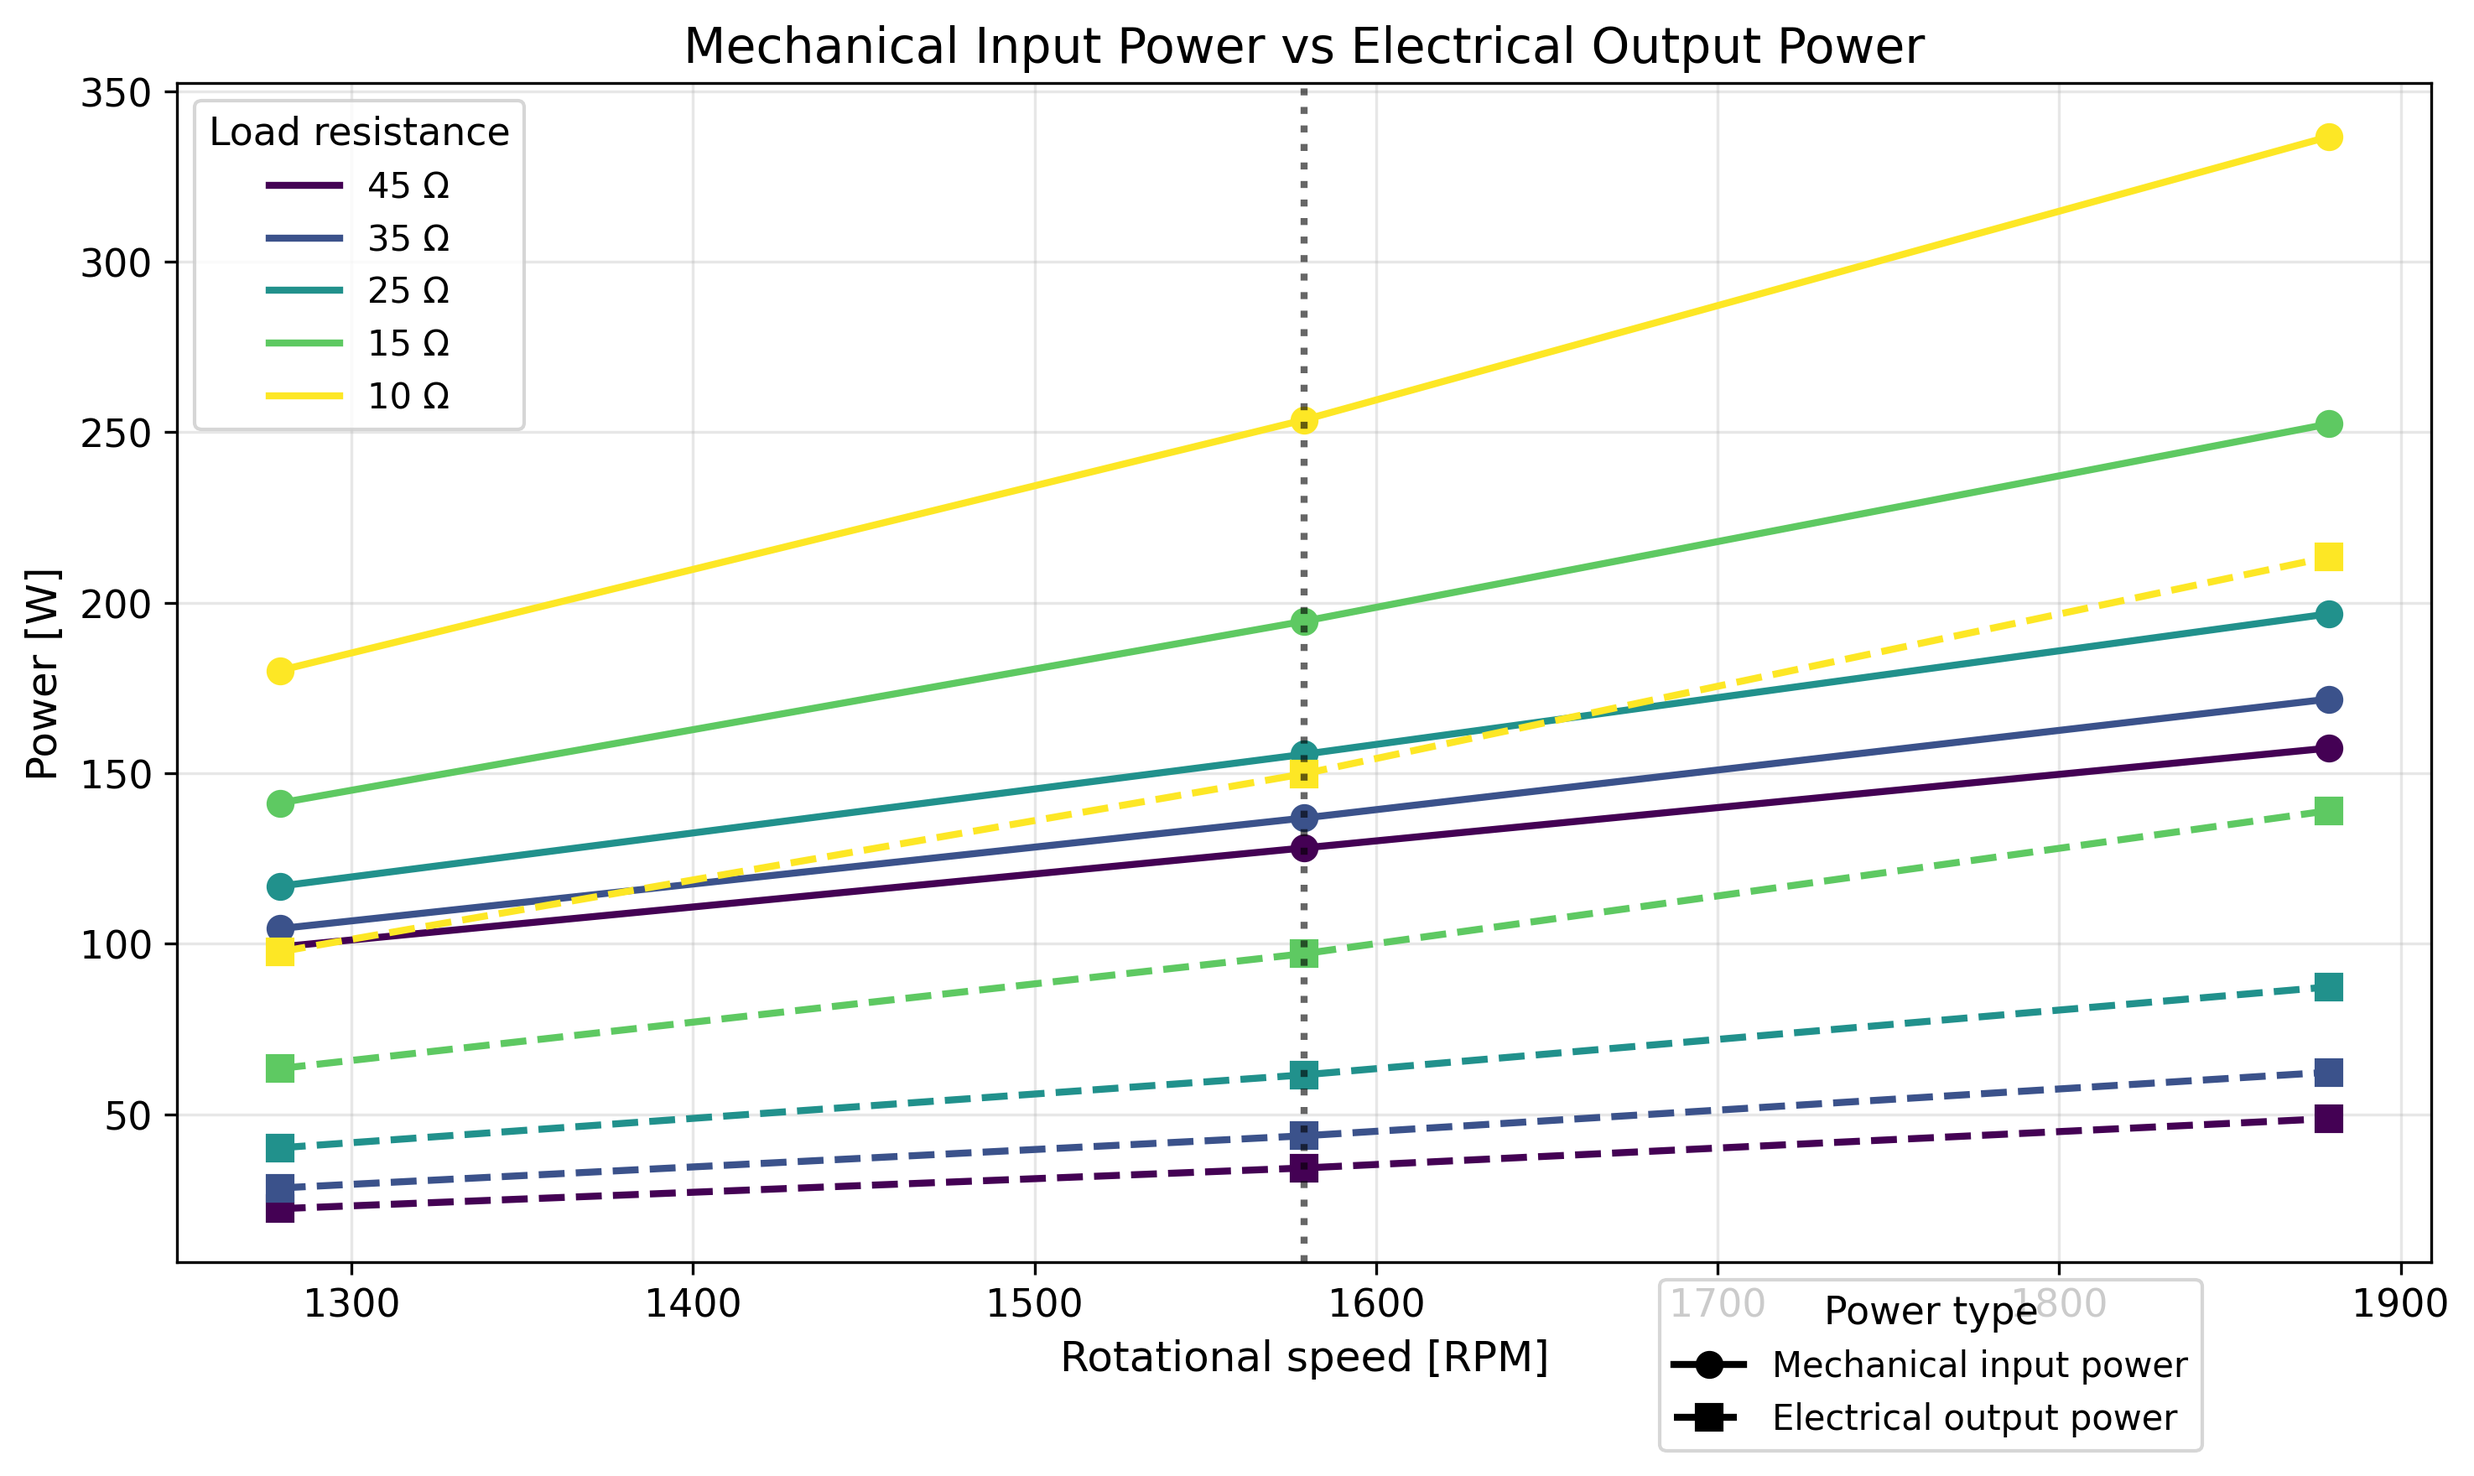
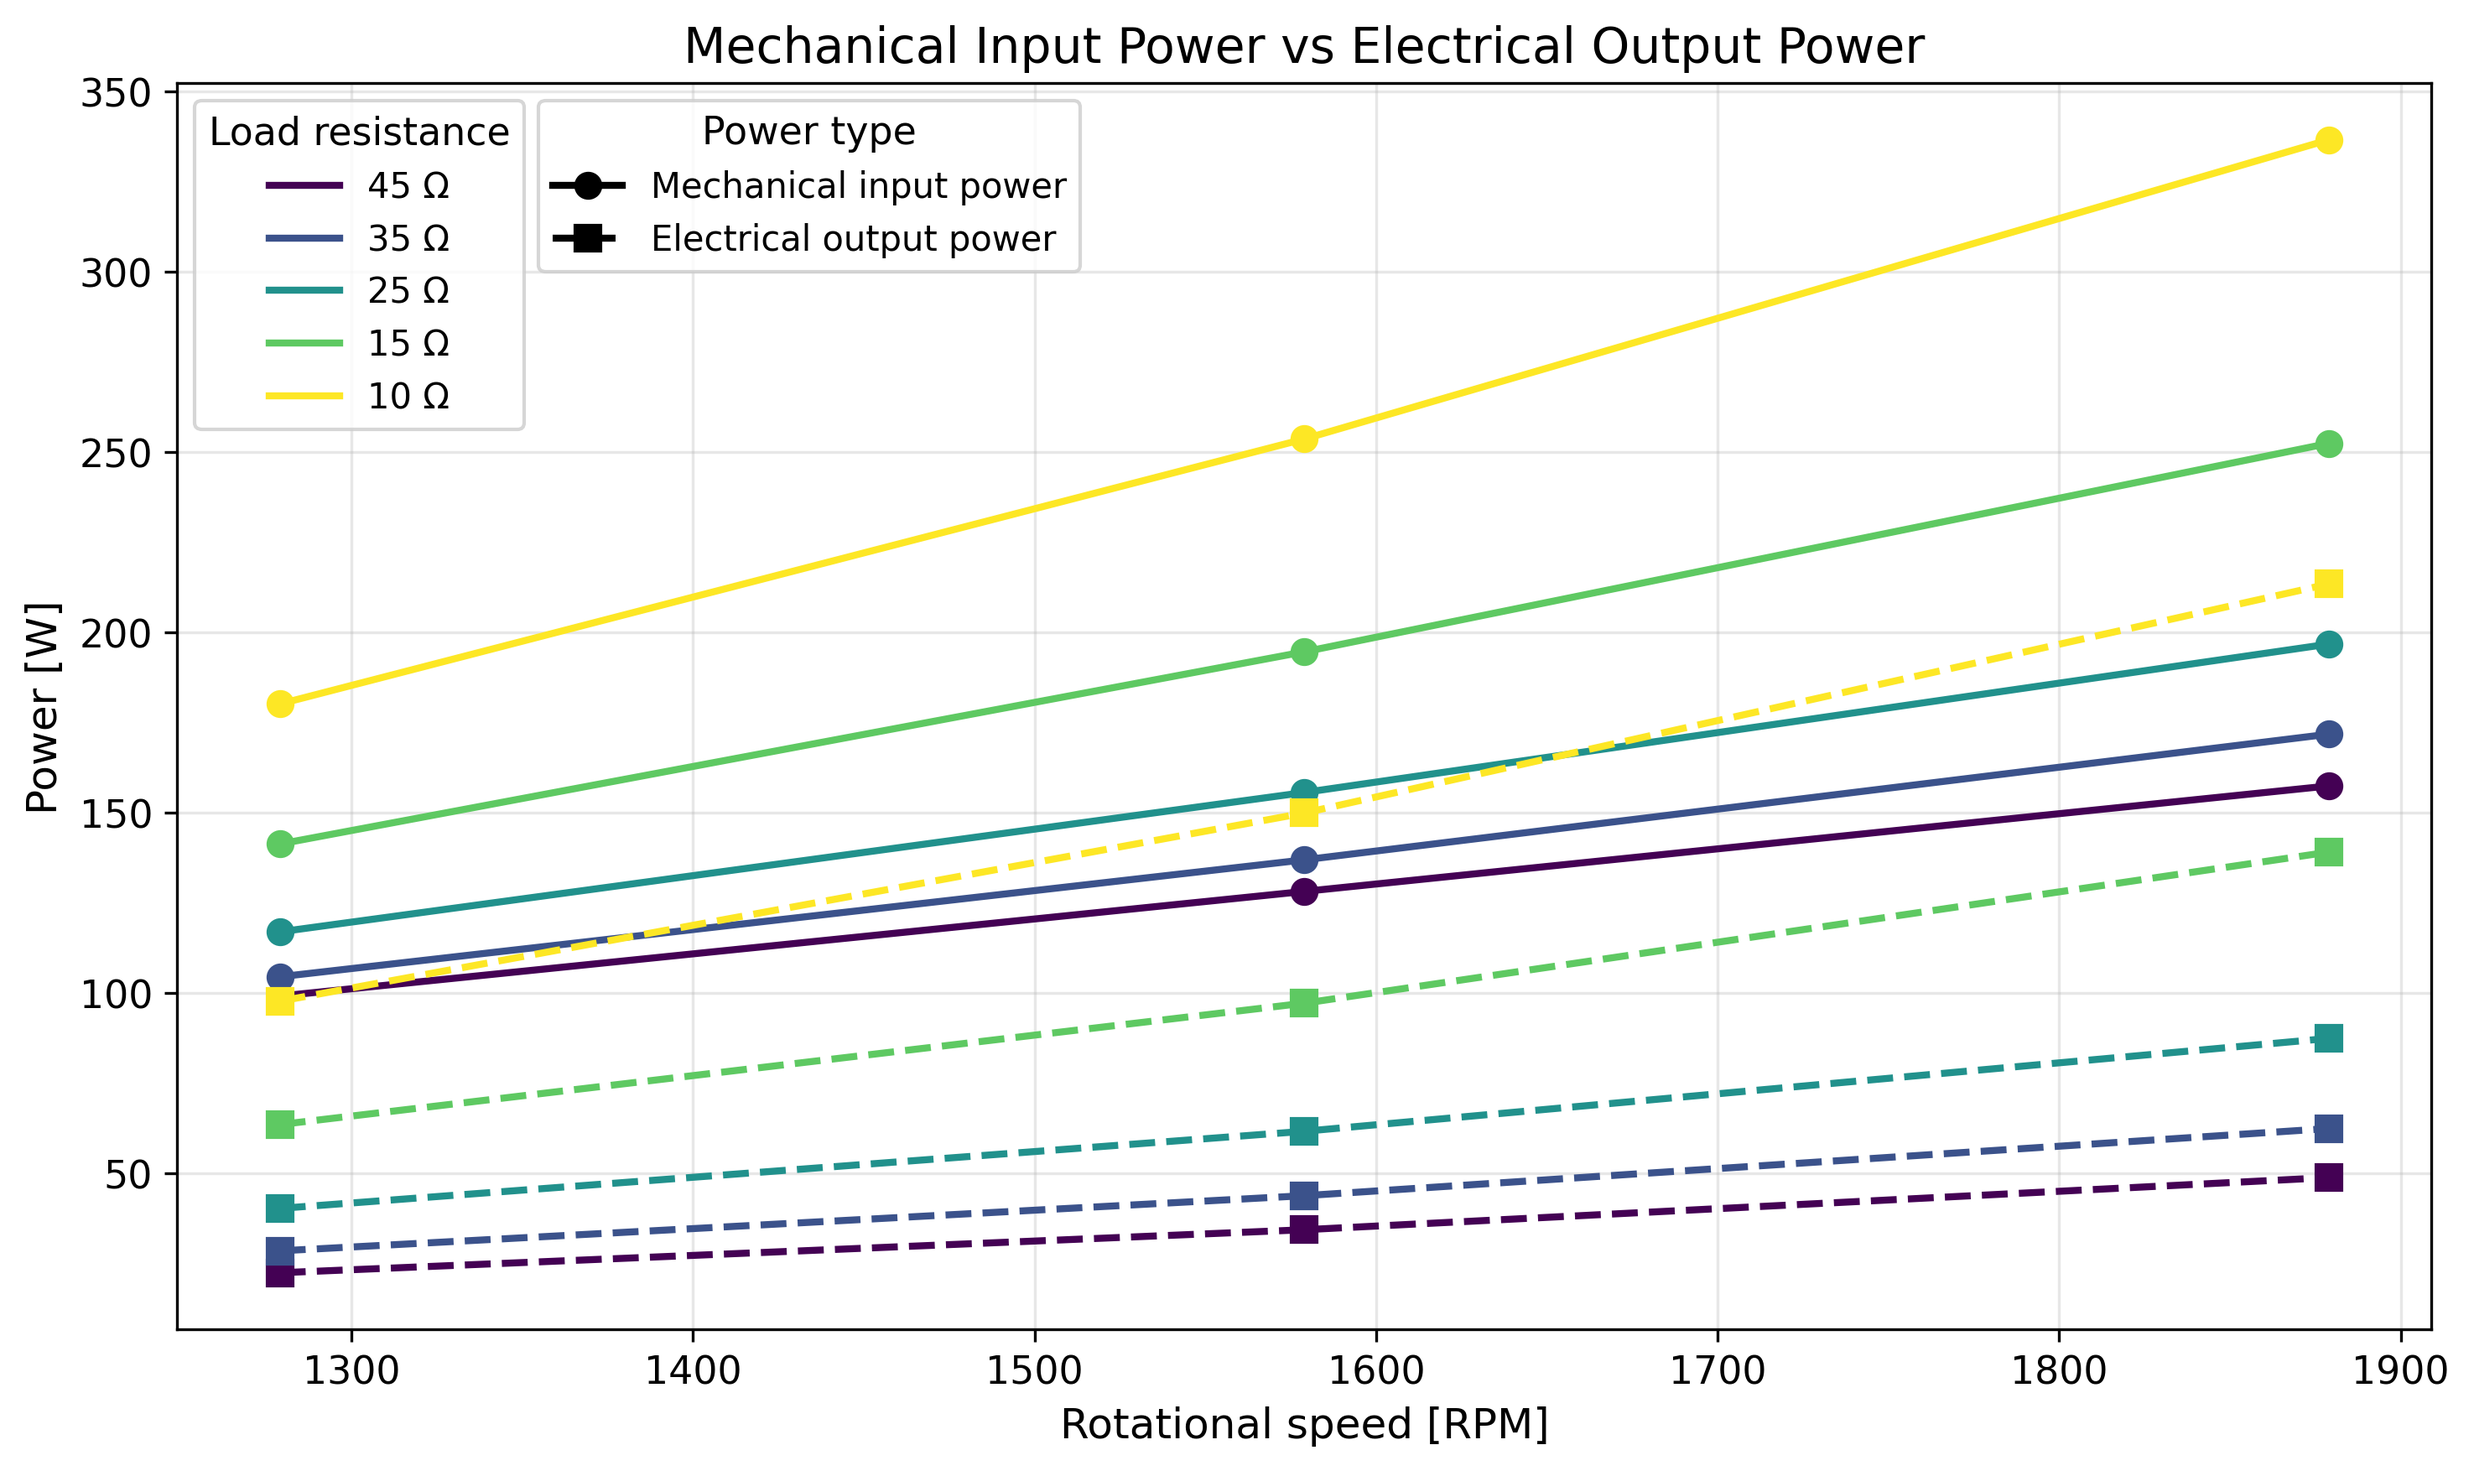
edit genResPlot to fit legend

diff --git a/projectDocs/genResPlot.py b/projectDocs/genResPlot.py
@@ -201,8 +201,7 @@ load_legend = [
 legend1 = ax.legend(
     handles=load_legend,
     title="Load resistance",
-    loc="upper left",
-    bbox_to_anchor=(0, 1)
+    loc="upper left"
 )
 
 ax.add_artist(legend1)
@@ -228,8 +227,27 @@ power_legend = [
 ax.legend(
     handles=power_legend,
     title="Power type",
+    loc="upper right"
+)
+
+ax.legend(
+    handles=power_legend,
+    title="Power type",
     loc="upper left",
-    bbox_to_anchor=(0.0925, 1)
+    bbox_to_anchor=(0.1525, 1)
+)
+
+ax.set_title("Mechanical Input Power vs Electrical Output Power")
+ax.set_xlabel("Rotational speed [RPM]")
+ax.set_ylabel("Power [W]")
+
+ax.grid(True)
+
+fig.tight_layout()
+fig.savefig(
+    OUTPUT_DIR / "03_power_balance.png",
+    dpi=300,
+    bbox_inches="tight"
 )
 
 
